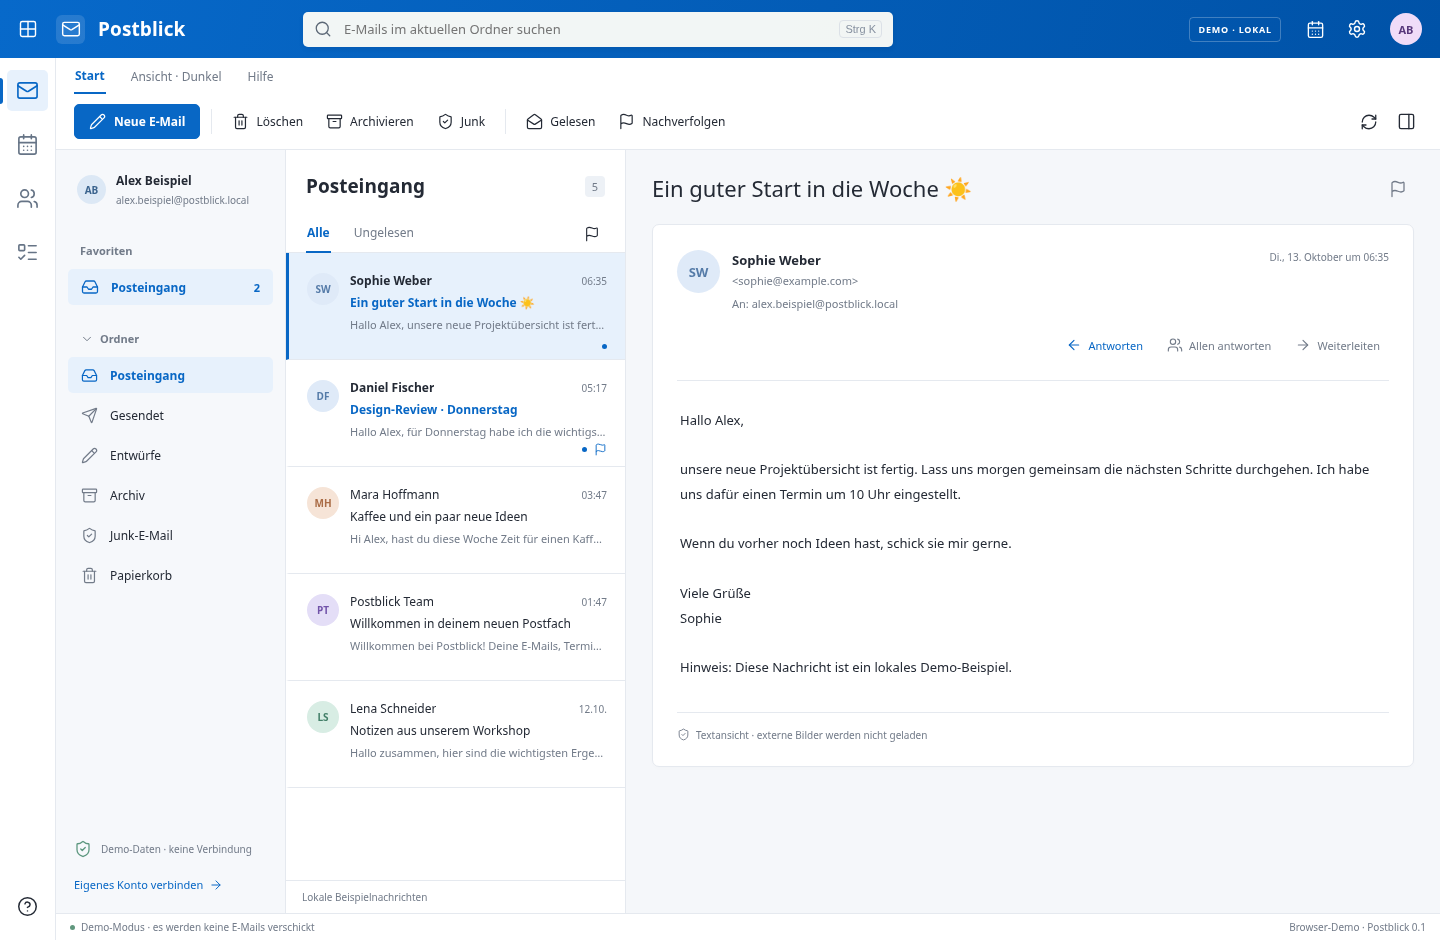
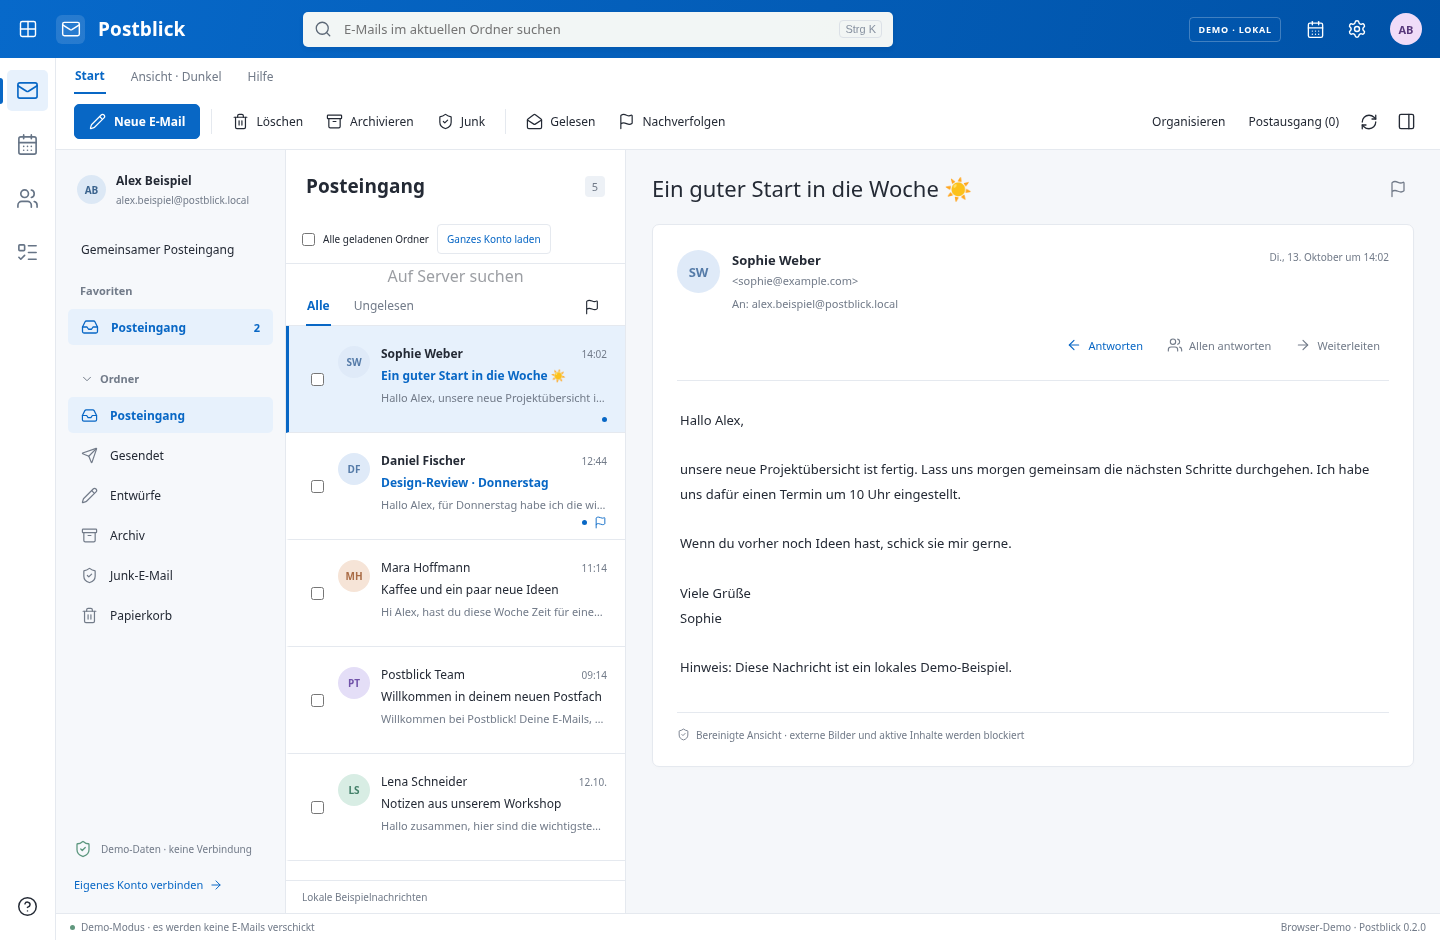
test: verify cache cleanup and document native Windows checks

diff --git a/docs/validation.md b/docs/validation.md
@@ -5,7 +5,7 @@ In der Linux-Cloud erfolgreich ausgeführt:
 | Prüfung | Ergebnis |
 | --- | --- |
 | TypeScript und Produktionsbuild | Erfolgreich |
-| Kern-/Provider-/Migrationstests | 30 bestanden |
+| Kern-/Provider-/Migrationstests | 31 bestanden |
 | Browser-Workflows | 10 bestanden |
 | Nativer Electron-Test unter Xvfb | 1 bestanden |
 | npm audit (einschließlich Entwicklung) | Keine bekannten Advisories |
@@ -18,4 +18,4 @@ Der native Test prüft die echte IPC-Brücke, Schemas, Isolation, Cache-Neustart
 
 Die Storage-Unit-Tests verwenden einen kontrollierten Ersatz für DPAPI. Sie belegen keine Windows-Kryptografie. Konto-, Tenant-, Einladung-, SMTP-Zustellungs-, Druck-, Mailto-Standard-App- und signierte Update-Ende-zu-Ende-Tests mit realen Benutzerkonten stehen aus. Ein unabhängiges Sicherheitsaudit fehlt.
 
-Windows-Build und Release-Installerprüfung werden über die GitHub-Workflows ausgeführt. Ihre Ergebnisse werden nach Abschluss ergänzt. Die angeforderte vollständige Outlook-Funktionsliste ist noch nicht umgesetzt; der genaue Stand steht in feature-status.md.
+[Windows-Build und nativer Electron-Test](https://github.com/JonnyTheK1d/Outlook_Clone/actions/runs/38410887461) erfolgreich: Produktionsinstaller gebaut, native IPC-/Neustarttests unter Windows sowie DPAPI-Verschlüsselungs-/Entschlüsselungsrundlauf bestanden. Die zusätzliche neue Speicherprüfung lief separat in Linux; die ursprünglichen 30 Kern-/Provider-Tests liefen auch unter Windows. Die Prüfung des ausgelieferten Installers im Release-Workflow folgt. Die angeforderte vollständige Outlook-Funktionsliste ist noch nicht umgesetzt; der genaue Stand steht in feature-status.md.

diff --git a/SECURITY.md b/SECURITY.md
@@ -23,7 +23,7 @@ Postblick 0.2 ist kein Ersatz für Outlooks durch Microsoft geprüfte Sicherheit
 - Keine Virenprüfung von Anhängen, Phishing-Erkennung, S/MIME, Exchange-DLP, Conditional Access-Integration oder automatische Sicherheitsupdates. Anbieterfunktionen gelten unabhängig von Postblick.
 - Der Installer ist unsigniert. Vor einer öffentlichen Verteilung müssen Code-Signing, eine Update-Strategie und ein Sicherheitstest eingerichtet werden.
 - Provider-Tests prüfen Protokollaufrufe mit kontrollierten Testdaten; sie beweisen keine echte Kontoanmeldung oder Zustellung. Echte Konto- und Windows-Sicherheitstests stehen aus.
-- Die Linux-Cloud benötigt bei den nativen UI-Tests `--no-sandbox`, weil der Container keinen Chromium-Sandbox-Start erlaubt. Dieser Testparameter wird **nicht** in die App oder den Installer eingebaut. Context Isolation und deaktivierte Node-Integration werden auch dort geprüft; eine Windows-Prozesssandbox ist damit nicht validiert.
+- Die Linux-Cloud benötigt bei den nativen UI-Tests `--no-sandbox`, weil der Container keinen Chromium-Sandbox-Start erlaubt. Dieser Testparameter wird **nicht** in die App oder den Installer eingebaut. Context Isolation und deaktivierte Node-Integration werden auch dort geprüft; dieser Linux-Test validiert keine Windows-Prozesssandbox. Der native Windows-Test prüft zusätzlich die aktivierten Sandbox-/Isolationsoptionen und einen DPAPI-Rundlauf, kein unabhängiges Audit.
 
 ## Abhängigkeiten
 
